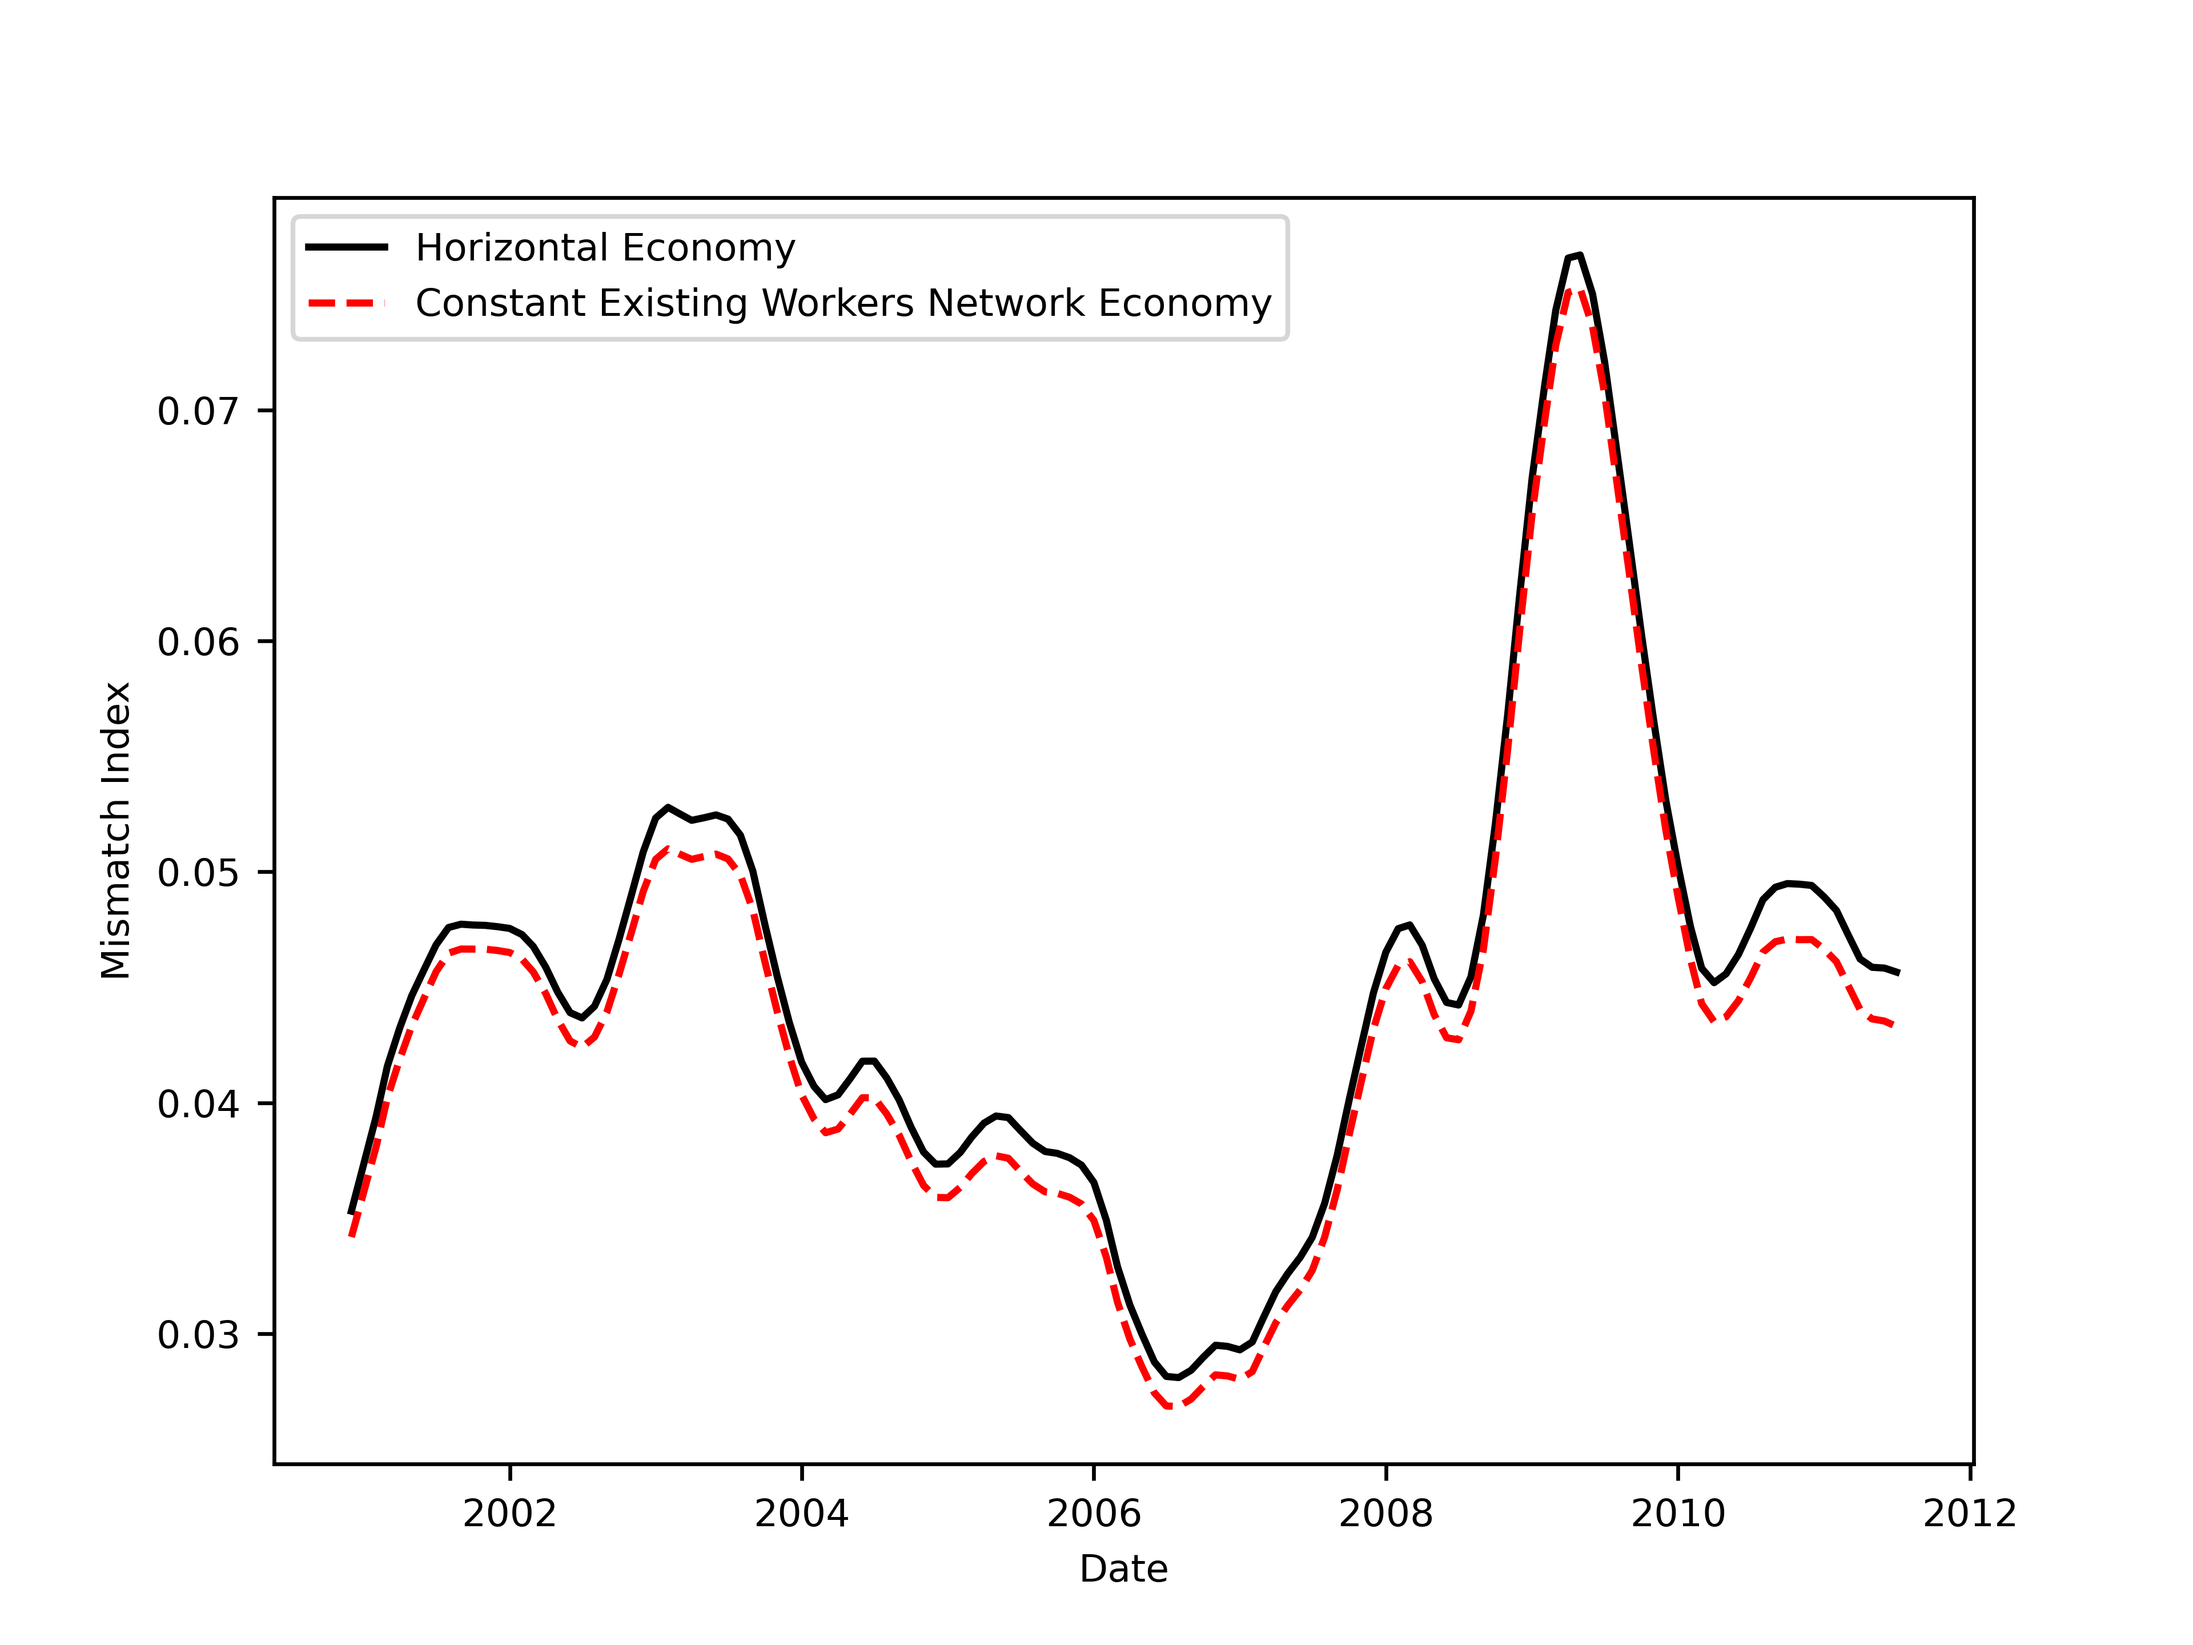
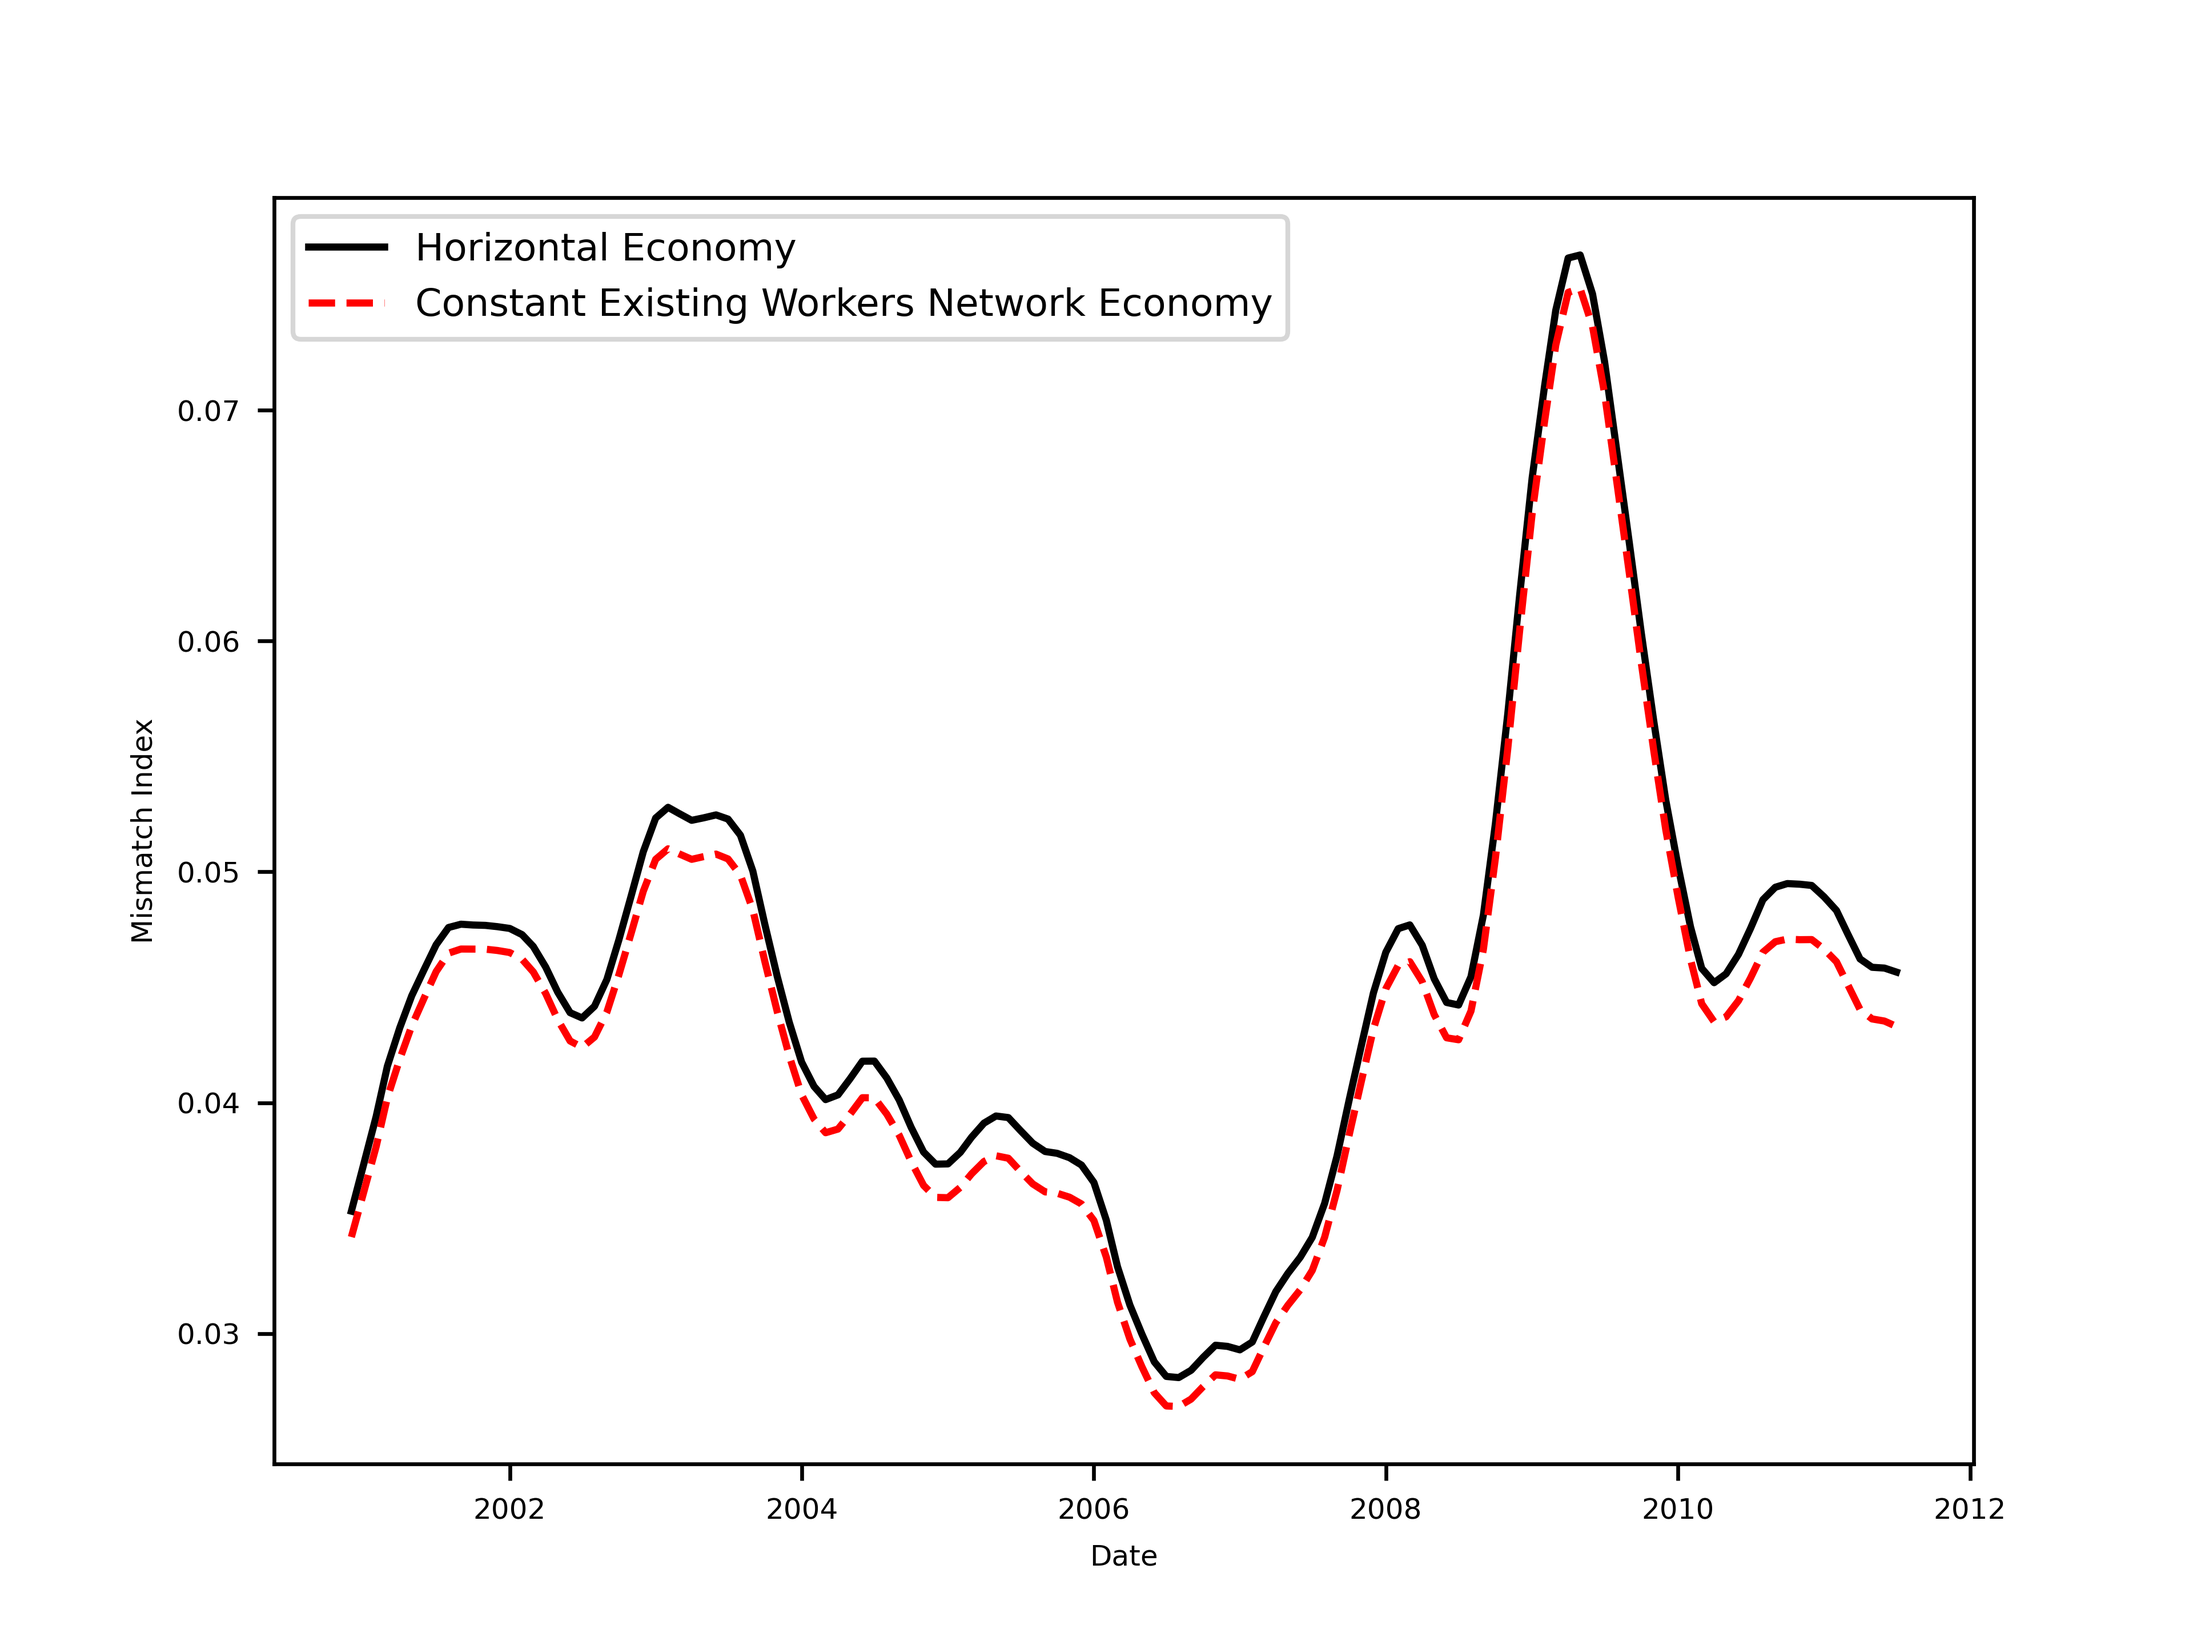
new stuff

diff --git a/code/main.py b/code/main.py
@@ -43,10 +43,26 @@ networks_monthly = mismatch_estimation(dfLabor_market_monthly,param_networks,gue
 networks_monthly.mHP(10,'networks_monthly',600)
 networks_monthly.sector_level('networks_monthly',600)
 
+##### Decomposition and Robustness ##### 
 # Constant λα, different e across industries
 param_cλα = {'A':A,'φ':φ,'λ':np.ones_like(λ),'α':np.ones_like(α),'θ':θ,'η':η,'mfunc':m_cd,'mufunc':mu_cd,'Lfunc':Lstar,'objective':ustar_objective}
 constantλα_monthly = mismatch_estimation(dfLabor_market_monthly,param_cλα,guessrange=0.01,ntrue=2,tol=1e-8)
 constantλα_monthly.mHP(10,'constantλα_monthly',600)
+
+# Constant λ
+param_cλ = {'A':A,'φ':φ,'λ':np.ones_like(λ),'α':α,'θ':θ,'η':η,'mfunc':m_cd,'mufunc':mu_cd,'Lfunc':Lstar,'objective':ustar_objective}
+constantλ_monthly = mismatch_estimation(dfLabor_market_monthly,param_cλ,guessrange=0.01,ntrue=2,tol=1e-8)
+constantλ_monthly.mHP(10,'constantλ_monthly',600)
+
+#100*λ
+param_c100λ = {'A':A,'φ':φ,'λ':100*λ,'α':α,'θ':θ,'η':η,'mfunc':m_cd,'mufunc':mu_cd,'Lfunc':Lstar,'objective':ustar_objective}
+constant100λ_monthly = mismatch_estimation(dfLabor_market_monthly,param_c100λ,guessrange=0.01,ntrue=2,tol=1e-8)
+constant100λ_monthly.mHP(10,'constant100λ_monthly',600)
+
+# Constant α
+param_cα = {'A':A,'φ':φ,'λ':λ,'α':np.ones_like(α),'θ':θ,'η':η,'mfunc':m_cd,'mufunc':mu_cd,'Lfunc':Lstar,'objective':ustar_objective}
+constantα_monthly = mismatch_estimation(dfLabor_market_monthly,param_cα,guessrange=0.01,ntrue=2,tol=1e-8)
+constantα_monthly.mHP(10,'constantα_monthly',600)
 
 # Constant e, different λα across industries
 param_ce = {'A':A,'φ':φ,'λ':λ,'α':α,'θ':θ,'η':η,'mfunc':m_cd,'mufunc':mu_cd,'Lfunc':Lstar,'objective':ustar_objective}
@@ -55,7 +71,12 @@ dfLabor_market_monthly_constant_e.e = dfLabor_market_monthly.e.mean()
 constante_monthly = mismatch_estimation(dfLabor_market_monthly_constant_e,param_cλα,guessrange=0.01,ntrue=2,tol=1e-8)
 constante_monthly.mHP(10,'constante_monthly',600)
 
-# Figures 
+# Constant α = 1, constant e
+param_αeq1 = {'A':A,'φ':φ,'λ':λ,'α':np.ones_like(α),'θ':θ,'η':η,'mfunc':m_cd,'mufunc':mu_cd,'Lfunc': Lones,'objective':ustar_objective}
+αeq1_monthly = mismatch_estimation(dfLabor_market_monthly_constant_e,param_αeq1,guessrange=0.01,ntrue=2,tol=1e-8)
+αeq1_monthly.mHP(10,'constantα_monthly',600)
+
+##### Figures ##### 
 fig_aggregate_mismatch, ax = plt.subplots(1,1,dpi=600)
 plt.rcParams['font.size'] = '8'
 ax.plot(sahin_monthly.output.index,sahin_monthly.output.mismatch_trend,'-k',label='Horizontal Economy')
@@ -79,9 +100,11 @@ ax2.legend()
 plt.savefig('code/output/mismatch_index_comparison_2ax.png')
 
 fig_network_mismatch_decomp, ax = plt.subplots(1,1,dpi=600)
-plt.rcParams['font.size'] = '8'
+plt.rcParams['font.size'] = '6'
 ax.plot(networks_monthly.output.index,networks_monthly.output.mismatch_trend,'-k',label='Network Economy')
 ax.plot(constantλα_monthly.output.index,constantλα_monthly.output.mismatch_trend,'--r',label='Constant λα Across Sectors')
+ax.plot(constantλ_monthly.output.index,constantλ_monthly.output.mismatch_trend,'--g',label='Constant λ Across Sectors')
+ax.plot(constantα_monthly.output.index,constantα_monthly.output.mismatch_trend,'--y',label='Constant α Across Sectors')
 ax.plot(constante_monthly.output.index,constante_monthly.output.mismatch_trend,'--b',label='Constant Existing Employment Across Sectors')
 ax.set_xlabel('Date')
 ax.set_ylabel('Mismatch Index')
@@ -97,5 +120,23 @@ ax.set_ylabel('Mismatch Index')
 ax.legend()
 plt.savefig('code/output/mismatch_index_comparison_constante.png')
 
+fig_aggregate_mismatch, ax = plt.subplots(1,1,dpi=600)
+plt.rcParams['font.size'] = '8'
+ax.plot(networks_monthly.output.index,networks_monthly.output.mismatch_trend,'-k',label='Network Economy')
+ax.plot(constant100λ_monthly.output.index,constant100λ_monthly.output.mismatch_trend,'--r',label='Network Economy with 100λ')
+ax.set_xlabel('Date')
+ax.set_ylabel('Mismatch Index')
+ax.legend()
+plt.savefig('code/output/mismatch_index_comparison_100lambda.png')
+
+
+fig_aggregate_mismatch_αeq1, ax = plt.subplots(1,1,dpi=600)
+plt.rcParams['font.size'] = '8'
+ax.plot(sahin_monthly.output.index,sahin_monthly.output.mismatch_trend,'-k',label='Horizontal Economy')
+ax.plot(αeq1_monthly.output.index,αeq1_monthly.output.mismatch_trend,'--r',label='Network Economy with α = 1')
+ax.set_xlabel('Date')
+ax.set_ylabel('Mismatch Index')
+ax.legend()
+plt.savefig('code/output/mismatch_index_comparison_alpha_eq1.png')
 
 print('done')
